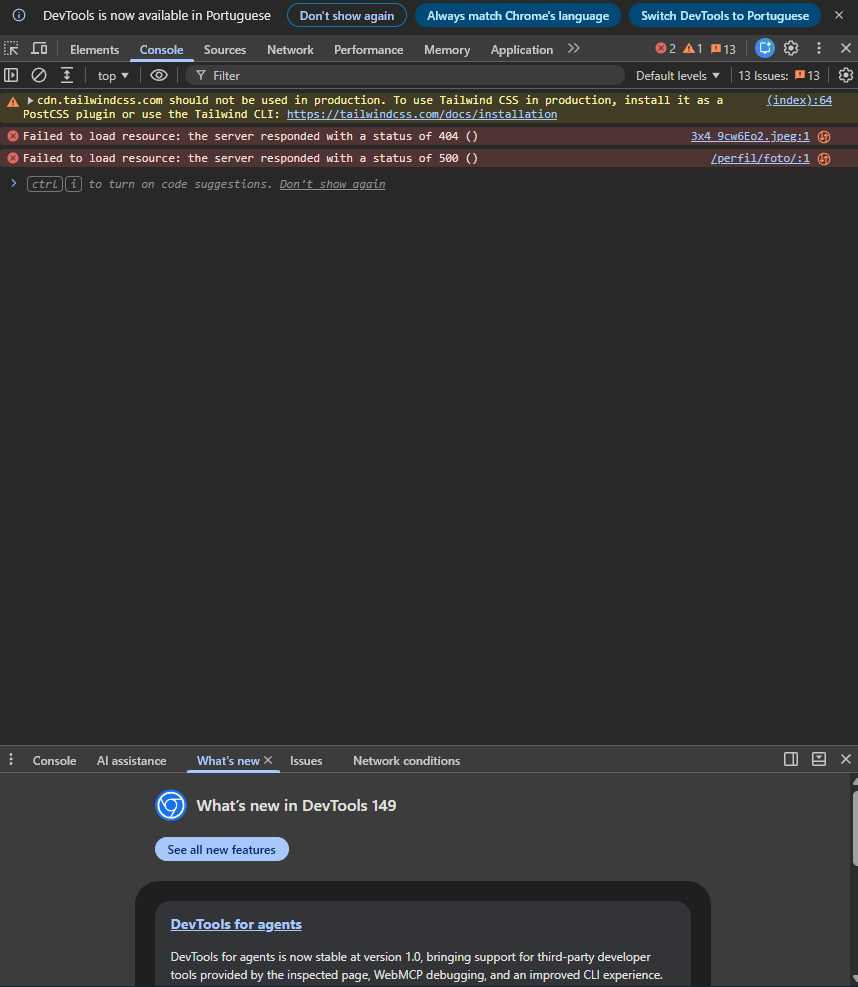
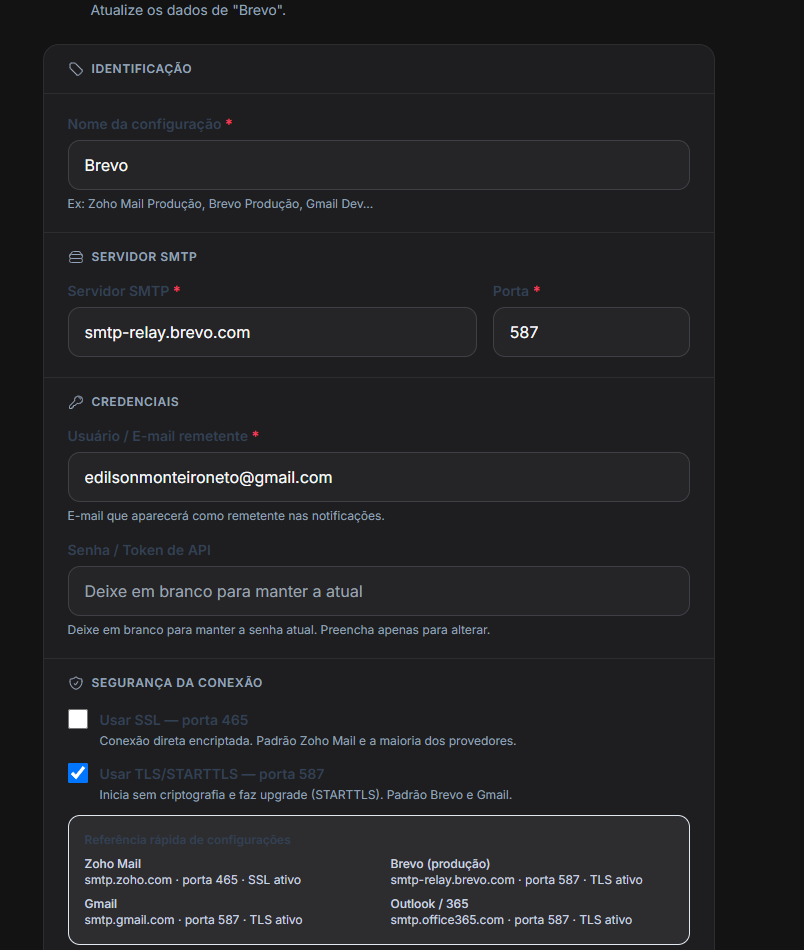
Implementado o Brevo mail

diff --git a/templates/core/configurar_email.html b/templates/core/configurar_email.html
@@ -30,61 +30,60 @@
         </div>
 
         {% if configs %}
-        <div class="overflow-x-auto">
-            <table class="w-full text-sm">
+        <div>
+            <table class="w-full text-sm table-fixed">
+                <colgroup>
+                    <col class="w-[15%]">
+                    <col class="w-[20%]">
+                    <col class="w-[9%]">
+                    <col class="w-[24%]">
+                    <col class="w-[8%]">
+                    <col class="w-[24%]">
+                </colgroup>
                 <thead>
                     <tr class="border-b border-slate-100 text-left text-xs font-semibold text-slate-500 uppercase tracking-wide">
-                        <th class="px-5 py-3">Nome</th>
-                        <th class="px-5 py-3">Servidor</th>
-                        <th class="px-5 py-3">Porta</th>
-                        <th class="px-5 py-3">Usuário / Remetente</th>
-                        <th class="px-5 py-3 text-center">Status</th>
-                        <th class="px-5 py-3 text-right">Ações</th>
+                        <th class="px-3 py-3">Nome</th>
+                        <th class="px-3 py-3">Servidor</th>
+                        <th class="px-3 py-3">Porta</th>
+                        <th class="px-3 py-3">Usuário / Remetente</th>
+                        <th class="px-3 py-3 text-center">Status</th>
+                        <th class="px-3 py-3 text-right">Ações</th>
                     </tr>
                 </thead>
                 <tbody class="divide-y divide-slate-50">
                     {% for c in configs %}
                     <tr class="{% if c.ativo %}bg-emerald-50/40{% endif %} hover:bg-slate-50 transition">
-                        <td class="px-5 py-4 font-semibold text-slate-800 whitespace-nowrap">
+                        <td class="px-3 py-3.5 font-semibold text-slate-800 truncate" title="{{ c.nome }}">
                             {{ c.nome }}
                         </td>
-                        <td class="px-5 py-4 font-mono text-slate-600 text-xs whitespace-nowrap">
+                        <td class="px-3 py-3.5 font-mono text-slate-600 text-xs truncate" title="{{ c.servidor_smtp }}">
                             {{ c.servidor_smtp }}
                         </td>
-                        <td class="px-5 py-4 text-slate-600 whitespace-nowrap">
+                        <td class="px-3 py-3.5 text-slate-600 whitespace-nowrap">
                             {{ c.porta }}
-                            <span class="ml-1 text-xs text-slate-400">{% if c.use_ssl %}SSL{% elif c.use_tls %}TLS{% endif %}</span>
+                            <span class="ml-0.5 text-xs text-slate-400">{% if c.use_ssl %}SSL{% elif c.use_tls %}TLS{% endif %}</span>
                         </td>
-                        <td class="px-5 py-4 text-slate-600 text-xs max-w-[180px] truncate" title="{{ c.usuario }}">
-                            {{ c.usuario }}
-                        </td>
-                        <td class="px-5 py-4 text-center whitespace-nowrap">
-                            {% if c.ativo %}
-                            <span class="inline-flex items-center gap-1 px-2.5 py-1 bg-emerald-100 text-emerald-700 text-xs font-semibold rounded-full">
-                                <span class="w-1.5 h-1.5 rounded-full bg-emerald-500"></span>
-                                Ativa
-                            </span>
-                            {% else %}
-                            <span class="inline-flex items-center gap-1 px-2.5 py-1 bg-slate-100 text-slate-500 text-xs font-semibold rounded-full">
-                                <span class="w-1.5 h-1.5 rounded-full bg-slate-400"></span>
-                                Inativa
-                            </span>
+                        <td class="px-3 py-3.5 text-xs" title="Login: {{ c.usuario }}{% if c.remetente %} | Remetente: {{ c.remetente }}{% endif %}">
+                            <div class="text-slate-600 truncate">{{ c.remetente|default:c.usuario }}</div>
+                            {% if c.remetente %}
+                            <div class="text-slate-400 truncate mt-0.5">login: {{ c.usuario }}</div>
                             {% endif %}
                         </td>
-                        <td class="px-5 py-4">
-                            <div class="flex items-center justify-end gap-2 whitespace-nowrap">
-                                {% if not c.ativo %}
-                                <form method="POST" action="{% url 'configurar_email_ativar' c.pk %}">
-                                    {% csrf_token %}
-                                    <button type="submit"
-                                            class="inline-flex items-center gap-1 px-3 py-1.5 bg-emerald-100 hover:bg-emerald-200 text-emerald-700 text-xs font-semibold rounded-lg transition">
-                                        <svg xmlns="http://www.w3.org/2000/svg" viewBox="0 0 20 20" fill="currentColor" class="w-3.5 h-3.5">
-                                            <path fill-rule="evenodd" d="M16.704 4.153a.75.75 0 0 1 .143 1.052l-8 10.5a.75.75 0 0 1-1.127.075l-4.5-4.5a.75.75 0 0 1 1.06-1.06l3.894 3.893 7.48-9.817a.75.75 0 0 1 1.05-.143Z" clip-rule="evenodd" />
-                                        </svg>
-                                        Ativar
-                                    </button>
-                                </form>
-                                {% endif %}
+                        <td class="px-3 py-3.5 text-center">
+                            <form method="POST" action="{% url 'configurar_email_toggle' c.pk %}" class="inline-flex items-center gap-2">
+                                {% csrf_token %}
+                                <button type="submit"
+                                        title="{% if c.ativo %}Clique para desativar{% else %}Clique para ativar{% endif %}"
+                                        class="relative inline-flex h-6 w-11 shrink-0 cursor-pointer rounded-full transition-colors duration-200 focus:outline-none focus:ring-2 focus:ring-offset-1 {% if c.ativo %}bg-emerald-500 focus:ring-emerald-400{% else %}bg-slate-300 hover:bg-slate-400 focus:ring-slate-400{% endif %}">
+                                    <span class="inline-block w-5 h-5 bg-white rounded-full shadow-sm transition-transform duration-200 mt-0.5 {% if c.ativo %}translate-x-5{% else %}translate-x-1{% endif %}"></span>
+                                </button>
+                                <span class="text-xs font-semibold {% if c.ativo %}text-emerald-600{% else %}text-slate-400{% endif %}">
+                                    {% if c.ativo %}Ativo{% else %}Inativo{% endif %}
+                                </span>
+                            </form>
+                        </td>
+                        <td class="px-3 py-3.5">
+                            <div class="flex items-center justify-end gap-1.5">
                                 <a href="{% url 'configurar_email_update' c.pk %}"
                                    class="inline-flex items-center gap-1 px-3 py-1.5 bg-slate-100 hover:bg-blue-50 text-slate-600 hover:text-blue-700 text-xs font-semibold rounded-lg transition">
                                     <svg xmlns="http://www.w3.org/2000/svg" viewBox="0 0 20 20" fill="currentColor" class="w-3.5 h-3.5">
@@ -200,7 +199,8 @@
                 diagDiv.innerHTML =
                     '<div class="font-semibold text-slate-500 mb-1">Configuração ativa usada:</div>' +
                     '<div>Servidor: ' + escapeHtml(d.servidor) + ':' + d.porta + '</div>' +
-                    '<div>Usuário:  ' + escapeHtml(d.usuario) + '</div>' +
+                    '<div>Usuário (login SMTP): ' + escapeHtml(d.usuario) + '</div>' +
+                    '<div>Remetente (De:): ' + escapeHtml(d.remetente) + '</div>' +
                     '<div>SSL: ' + (d.ssl ? 'Sim' : 'Não') + '  |  TLS: ' + (d.tls ? 'Sim' : 'Não') + '</div>' +
                     '<div>Senha configurada: ' + (d.senha_configurada ? 'Sim' : '<strong class="text-rose-600">Não</strong>') + '</div>';
             }

diff --git a/templates/core/configurar_email_form.html b/templates/core/configurar_email_form.html
@@ -95,7 +95,17 @@
                     {% if form.usuario.errors %}
                     <p class="mt-1 text-xs text-rose-500">{{ form.usuario.errors|join:', ' }}</p>
                     {% endif %}
-                    <p class="mt-1.5 text-xs text-slate-400">E-mail que aparecerá como remetente nas notificações.</p>
+                    <p class="mt-1.5 text-xs text-slate-400">Login usado para autenticar no servidor SMTP. Ex: <code>ae6030001@smtp-brevo.com</code></p>
+                </div>
+                <div>
+                    <label class="block text-sm font-semibold text-slate-700 mb-1.5">
+                        {{ form.remetente.label }}
+                    </label>
+                    {{ form.remetente }}
+                    {% if form.remetente.errors %}
+                    <p class="mt-1 text-xs text-rose-500">{{ form.remetente.errors|join:', ' }}</p>
+                    {% endif %}
+                    <p class="mt-1.5 text-xs text-slate-400">Aparece no "De:" das notificações. Se vazio, usa o Usuário acima. Ex: <code>edilson.monteiro@anagma.com.br</code></p>
                 </div>
                 <div>
                     <label class="block text-sm font-semibold text-slate-700 mb-1.5">{{ form.senha.label }}</label>

diff --git a/core/views.py b/core/views.py
@@ -399,10 +399,11 @@ def disparar_email(assunto, mensagem, destinatarios):
             fail_silently=False,
             timeout=15,
         )
+        from_email = config.remetente or config.usuario
         email = EmailMessage(
             subject=assunto,
             body=mensagem,
-            from_email=config.usuario,
+            from_email=from_email,
             to=destinatarios,
             connection=connection,
         )
@@ -1295,6 +1296,7 @@ def testar_email_view(request):
         'servidor': config.servidor_smtp,
         'porta': config.porta,
         'usuario': config.usuario,
+        'remetente': config.remetente or config.usuario,
         'ssl': config.use_ssl,
         'tls': config.use_tls,
         'senha_configurada': bool(config.senha),
@@ -1380,6 +1382,26 @@ def configurar_email_ativar(request, pk):
     config.ativo = True
     config.save()
     messages.success(request, f"'{config.nome}' ativada como configuração SMTP principal.")
+    return redirect('configurar_email')
+
+
+@login_required(login_url='login')
+def configurar_email_toggle(request, pk):
+    if _role(request.user) != 'admin':
+        messages.error(request, "Acesso negado.")
+        return redirect('dashboard')
+    if request.method != 'POST':
+        return redirect('configurar_email')
+    config = get_object_or_404(ConfigurarEmail, pk=pk)
+    if config.ativo:
+        config.ativo = False
+        config.save()
+        messages.info(request, f"'{config.nome}' desativada. Nenhum servidor SMTP ativo no momento.")
+    else:
+        ConfigurarEmail.objects.all().update(ativo=False)
+        config.ativo = True
+        config.save()
+        messages.success(request, f"'{config.nome}' ativada como configuração SMTP principal.")
     return redirect('configurar_email')
 
 

diff --git a/core/forms.py b/core/forms.py
@@ -307,12 +307,13 @@ class ConfigurarEmailForm(forms.ModelForm):
 
     class Meta:
         model = ConfigurarEmail
-        fields = ['nome', 'servidor_smtp', 'porta', 'usuario', 'senha', 'use_ssl', 'use_tls']
+        fields = ['nome', 'servidor_smtp', 'porta', 'usuario', 'remetente', 'senha', 'use_ssl', 'use_tls']
         labels = {
             'nome': 'Nome da configuração',
             'servidor_smtp': 'Servidor SMTP',
             'porta': 'Porta',
-            'usuario': 'Usuário / E-mail remetente',
+            'usuario': 'Usuário / Login SMTP',
+            'remetente': 'E-mail remetente',
             'use_ssl': 'Usar SSL — porta 465',
             'use_tls': 'Usar TLS/STARTTLS — porta 587',
         }
@@ -320,7 +321,8 @@ class ConfigurarEmailForm(forms.ModelForm):
             'nome': forms.TextInput(attrs={'class': _INPUT, 'placeholder': 'Ex: Zoho Mail, Brevo Produção…'}),
             'servidor_smtp': forms.TextInput(attrs={'class': _INPUT, 'placeholder': 'smtp.zoho.com'}),
             'porta': forms.NumberInput(attrs={'class': _INPUT, 'placeholder': '465'}),
-            'usuario': forms.EmailInput(attrs={'class': _INPUT, 'placeholder': 'seu@email.com'}),
+            'usuario': forms.EmailInput(attrs={'class': _INPUT, 'placeholder': 'ae6030001@smtp-brevo.com'}),
+            'remetente': forms.EmailInput(attrs={'class': _INPUT, 'placeholder': 'Ex: notificacoes@anagma.com.br (opcional)'}),
             'use_ssl': forms.CheckboxInput(attrs={'class': 'w-5 h-5 rounded border-slate-300 text-blue-600 focus:ring-blue-500'}),
             'use_tls': forms.CheckboxInput(attrs={'class': 'w-5 h-5 rounded border-slate-300 text-blue-600 focus:ring-blue-500'}),
         }

diff --git a/core/models.py b/core/models.py
@@ -122,7 +122,8 @@ class ConfigurarEmail(models.Model):
     ativo = models.BooleanField(default=False, verbose_name='Ativo')
     servidor_smtp = models.CharField(max_length=200, default='smtp.zoho.com')
     porta = models.IntegerField(default=465)
-    usuario = models.EmailField(default='dev@anagma.com.br')
+    usuario = models.EmailField(default='dev@anagma.com.br', verbose_name='Usuário / Login SMTP')
+    remetente = models.EmailField(blank=True, null=True, verbose_name='E-mail remetente', help_text='Aparece no "De:" das notificações. Se vazio, usa o Usuário.')
     senha = models.CharField(max_length=200, blank=True, null=True, help_text="Senha ou senha de aplicativo")
     use_tls = models.BooleanField(default=False, help_text="STARTTLS — porta 587")
     use_ssl = models.BooleanField(default=True, help_text="SSL direto — porta 465 (recomendado Zoho)")

diff --git a/core/migrations/0019_configuraremail_remetente.py b/core/migrations/0019_configuraremail_remetente.py
@@ -1,0 +1,21 @@
+from django.db import migrations, models
+
+
+class Migration(migrations.Migration):
+
+    dependencies = [
+        ('core', '0018_configuraremail_nome_ativo'),
+    ]
+
+    operations = [
+        migrations.AddField(
+            model_name='configuraremail',
+            name='remetente',
+            field=models.EmailField(blank=True, null=True, verbose_name='E-mail remetente', help_text='Aparece no "De:" das notificações. Se vazio, usa o Usuário.'),
+        ),
+        migrations.AlterField(
+            model_name='configuraremail',
+            name='usuario',
+            field=models.EmailField(default='dev@anagma.com.br', verbose_name='Usuário / Login SMTP'),
+        ),
+    ]

diff --git a/core/urls.py b/core/urls.py
@@ -47,6 +47,7 @@ urlpatterns = [
     path('configuracao-email/testar/', views.testar_email_view, name='testar_email'),
     path('configuracao-email/<int:pk>/editar/', views.configurar_email_update, name='configurar_email_update'),
     path('configuracao-email/<int:pk>/ativar/', views.configurar_email_ativar, name='configurar_email_ativar'),
+    path('configuracao-email/<int:pk>/toggle/', views.configurar_email_toggle, name='configurar_email_toggle'),
     path('configuracao-email/<int:pk>/excluir/', views.configurar_email_delete, name='configurar_email_delete'),
 
     # Foto de perfil (qualquer usuário autenticado)
